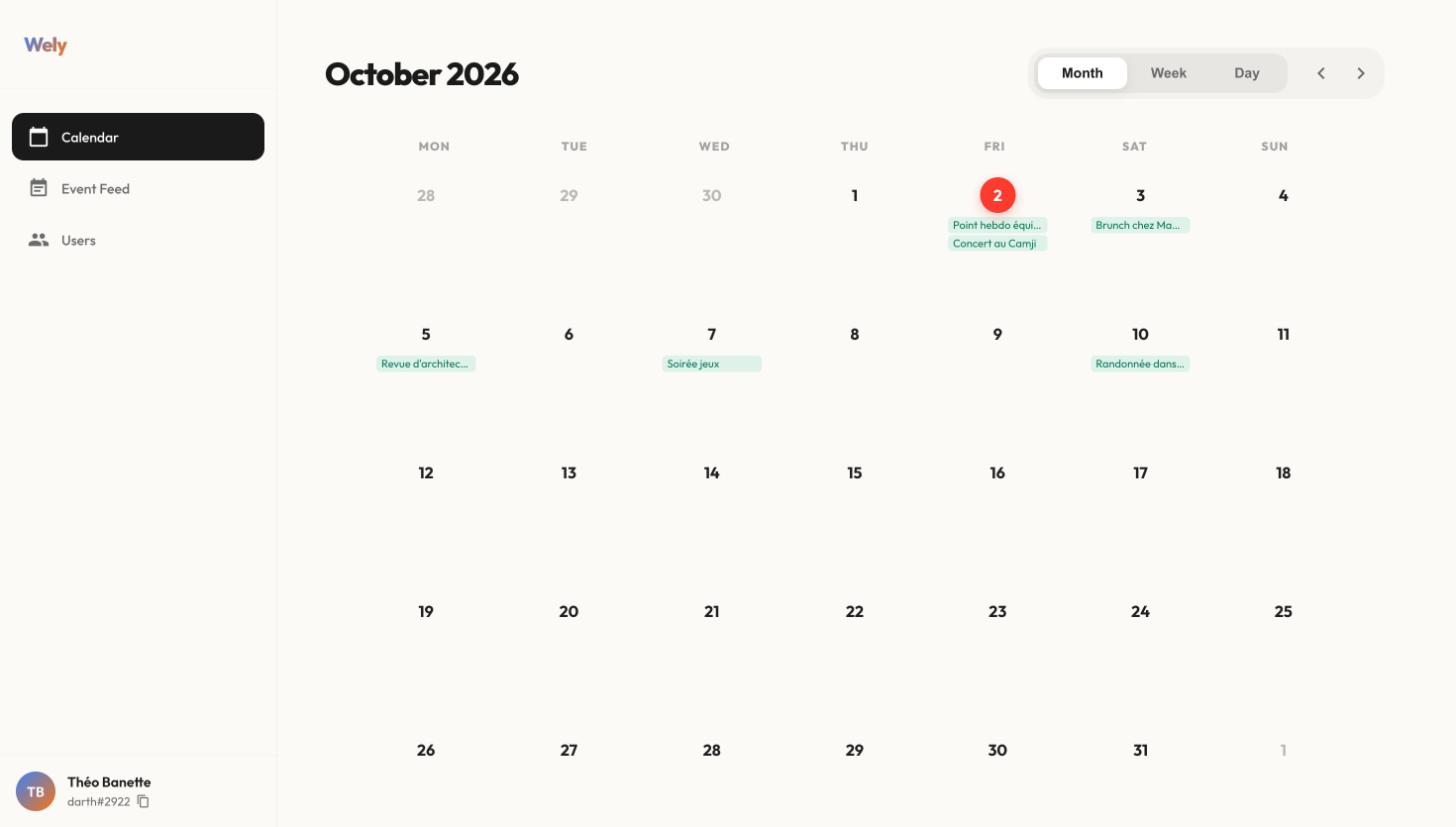
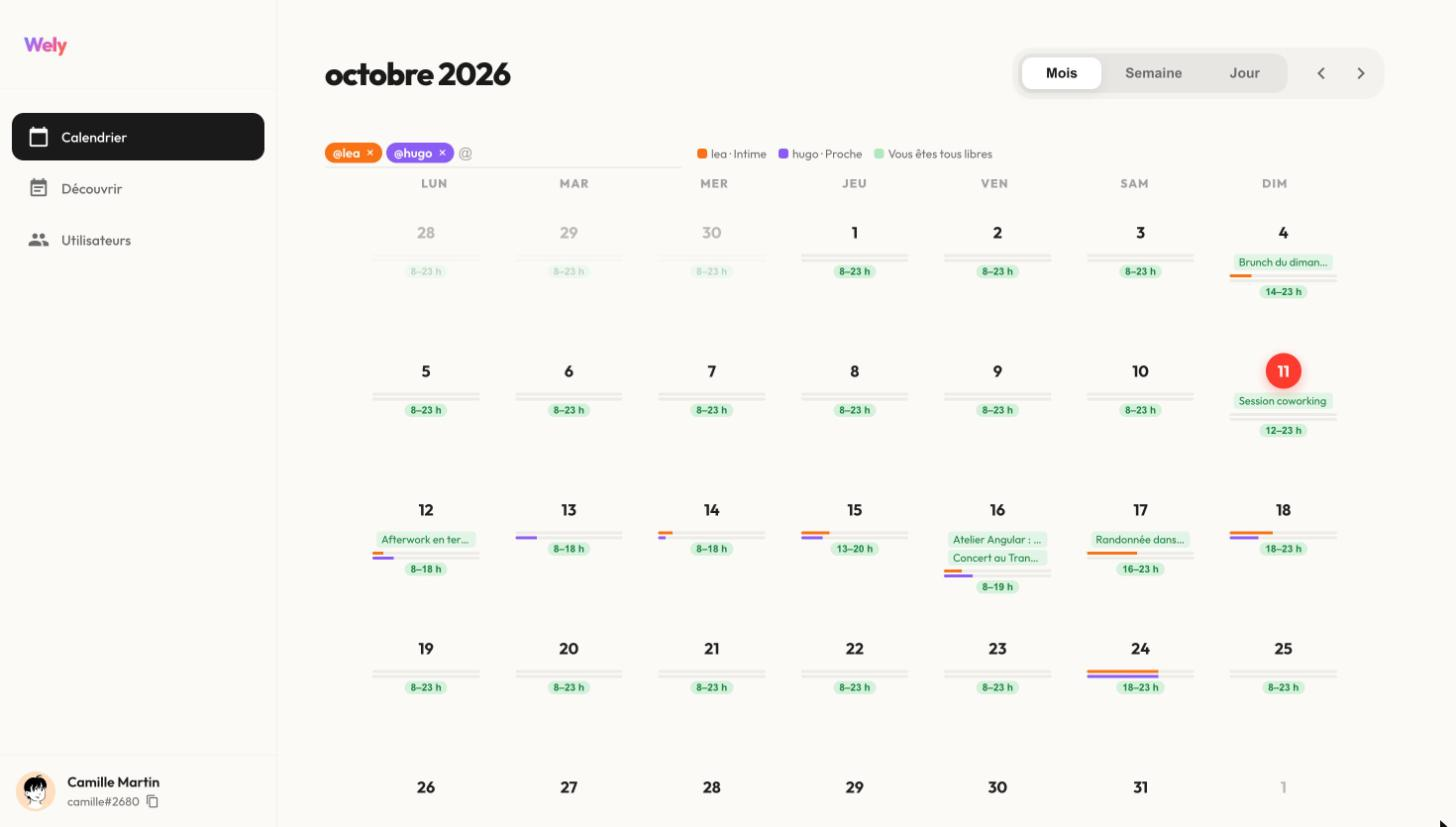
docs: fresh screenshots, with friend calendars, slot search and closeness
The previous ones dated from 2 October: English interface, none of the
features since. The app section now shows the week view with two friends
overlaid, the slot search, the month view, closeness levels, the chat, the
feed and the landing page, each with what it demonstrates.

diff --git a/README.md b/README.md
@@ -59,44 +59,57 @@ Le compte ne peut changer ni son mot de passe ni son pseudo, et ses données son
 ## L'application
 
 <p align="center">
-  <img src="docs/screenshots/calendar-month.jpg" alt="Vue mensuelle du calendrier, avec les événements auxquels l'utilisateur est inscrit" width="900">
+  <img src="docs/screenshots/calendar-week.jpg" alt="Vue semaine du calendrier de Camille, avec les calendriers de Léa et Hugo superposés en colonnes et les créneaux où tous sont libres en vert" width="900">
 </p>
 
-Le calendrier n'affiche que les événements auxquels l'utilisateur est **inscrit**. C'est une
-distinction qui porte toute la conception : `wely-events` modélise des abonnements, pas un agenda
-personnel, et le fil de découverte ci-dessous est le mécanisme par lequel on s'y abonne.
+**Le calendrier de ses amis, superposé au sien.** On mentionne jusqu'à quatre amis avec `@` : leurs agendas s'affichent côte à côte, une colonne de couleur par ami, et les moments où **tout le monde est libre** (entre 8 h et 23 h) apparaissent en vert. Ce qu'on voit d'un événement dépend de la **proximité**, acceptée par les deux : « Ami » ne montre que « Occupé », « Proche » ajoute le titre, « Intime » montre tout — sauf les événements privés, qui restent « Occupé ». La décision vit dans `wely-events`, la proximité dans le graphe Neo4j de `wely-social`.
 
 <table>
   <tr>
     <td width="50%" valign="top">
-      <img src="docs/screenshots/chat.jpg" alt="Conversation en temps réel entre deux utilisateurs">
-      <p><strong>Messagerie temps réel.</strong> Le transport est RSocket sur WebSocket, pas du
-      polling : le serveur pousse. Les messages sont stockés par paquets de cinquante dans un même
-      document MongoDB — le <em>bucket pattern</em> — plutôt qu'un document par message.</p>
+      <img src="docs/screenshots/find-slot.jpg" alt="Formulaire de création d'événement avec la recherche d'un créneau commun à Léa et Hugo">
+      <p><strong>Trouver un créneau.</strong> On glisse sur une plage, on mentionne des amis, on
+      choisit une durée : <code>wely-events</code> calcule les trous communs en Java pur, à partir
+      d'une requête Mongo sur les seuls événements qui chevauchent la plage. Ni titre ni lieu ne
+      sortent : seulement des plages libres.</p>
     </td>
     <td width="50%" valign="top">
-      <img src="docs/screenshots/feed.jpg" alt="Fil de découverte des événements, carte à faire glisser">
-      <p><strong>Fil de découverte.</strong> Les événements auxquels l'utilisateur n'est pas
-      inscrit. Glisser à droite l'y inscrit, à gauche le passe. Le nom de l'organisateur vient du
-      service social : un événement ne porte qu'un identifiant, <code>wely-events</code> ignorant
-      qui sont les utilisateurs.</p>
+      <img src="docs/screenshots/calendar-month.jpg" alt="Vue mois avec une barre de charge par ami et les journées où tous sont libres">
+      <p><strong>Vue mois.</strong> Une barre par ami superposé, remplie selon son temps occupé
+      dans la journée, et une pastille verte quand tout le monde a au moins deux heures libres
+      ensemble. Un clic ouvre la journée.</p>
     </td>
   </tr>
   <tr>
     <td width="50%" valign="top">
-      <img src="docs/screenshots/users.jpg" alt="Recherche d'utilisateurs et statut relationnel">
-      <p><strong>Graphe social.</strong> Chaque carte porte le statut de la relation — ami,
-      demande envoyée, inconnu — calculé par une requête Cypher bidirectionnelle sur Neo4j.</p>
+      <img src="docs/screenshots/friends.jpg" alt="Page Amis avec le niveau de proximité de chaque ami">
+      <p><strong>Niveaux de proximité.</strong> Monter d'un niveau est une proposition que l'autre
+      accepte ; descendre s'applique tout de suite, sans son accord. Les écritures sont protégées
+      par un verrou optimiste sur la relation Neo4j : deux réponses simultanées ne s'écrasent pas.</p>
     </td>
     <td width="50%" valign="top">
-      <img src="docs/screenshots/calendar-week.jpg" alt="Vue hebdomadaire du calendrier">
-      <p><strong>Vue hebdomadaire.</strong> Grille horaire avec marqueur d'heure courante. La
-      création d'événement se fait en glissant sur une plage.</p>
+      <img src="docs/screenshots/chat.jpg" alt="Conversation en temps réel entre deux utilisateurs">
+      <p><strong>Messagerie temps réel.</strong> RSocket sur WebSocket, diffusion entre instances
+      par Kafka, messages groupés par cinquante dans un document MongoDB (<em>bucket pattern</em>).
+      Le statut « En ligne » est partagé par les instances via MongoDB, avec un index TTL.</p>
+    </td>
+  </tr>
+  <tr>
+    <td width="50%" valign="top">
+      <img src="docs/screenshots/feed.jpg" alt="Fil de découverte des événements, carte à faire glisser">
+      <p><strong>Fil de découverte.</strong> Les événements publics et ceux que partagent ses
+      amis, filtrés dans la requête Mongo selon la visibilité de chaque événement (public, amis,
+      privé). Glisser à droite pour s'inscrire.</p>
+    </td>
+    <td width="50%" valign="top">
+      <img src="docs/screenshots/landing.jpg" alt="Page d'accueil de Wely">
+      <p><strong>Page d'accueil.</strong> Construite à partir des vrais composants de l'appli,
+      avec le compte de démonstration en libre accès.</p>
     </td>
   </tr>
 </table>
 
-> Captures prises sur l'environnement `dev`, avec un jeu de données de démonstration.
+> Captures prises le 11 octobre 2026 sur l'environnement `dev`, avec le compte de démonstration et son jeu de données.
 
 ---
 
